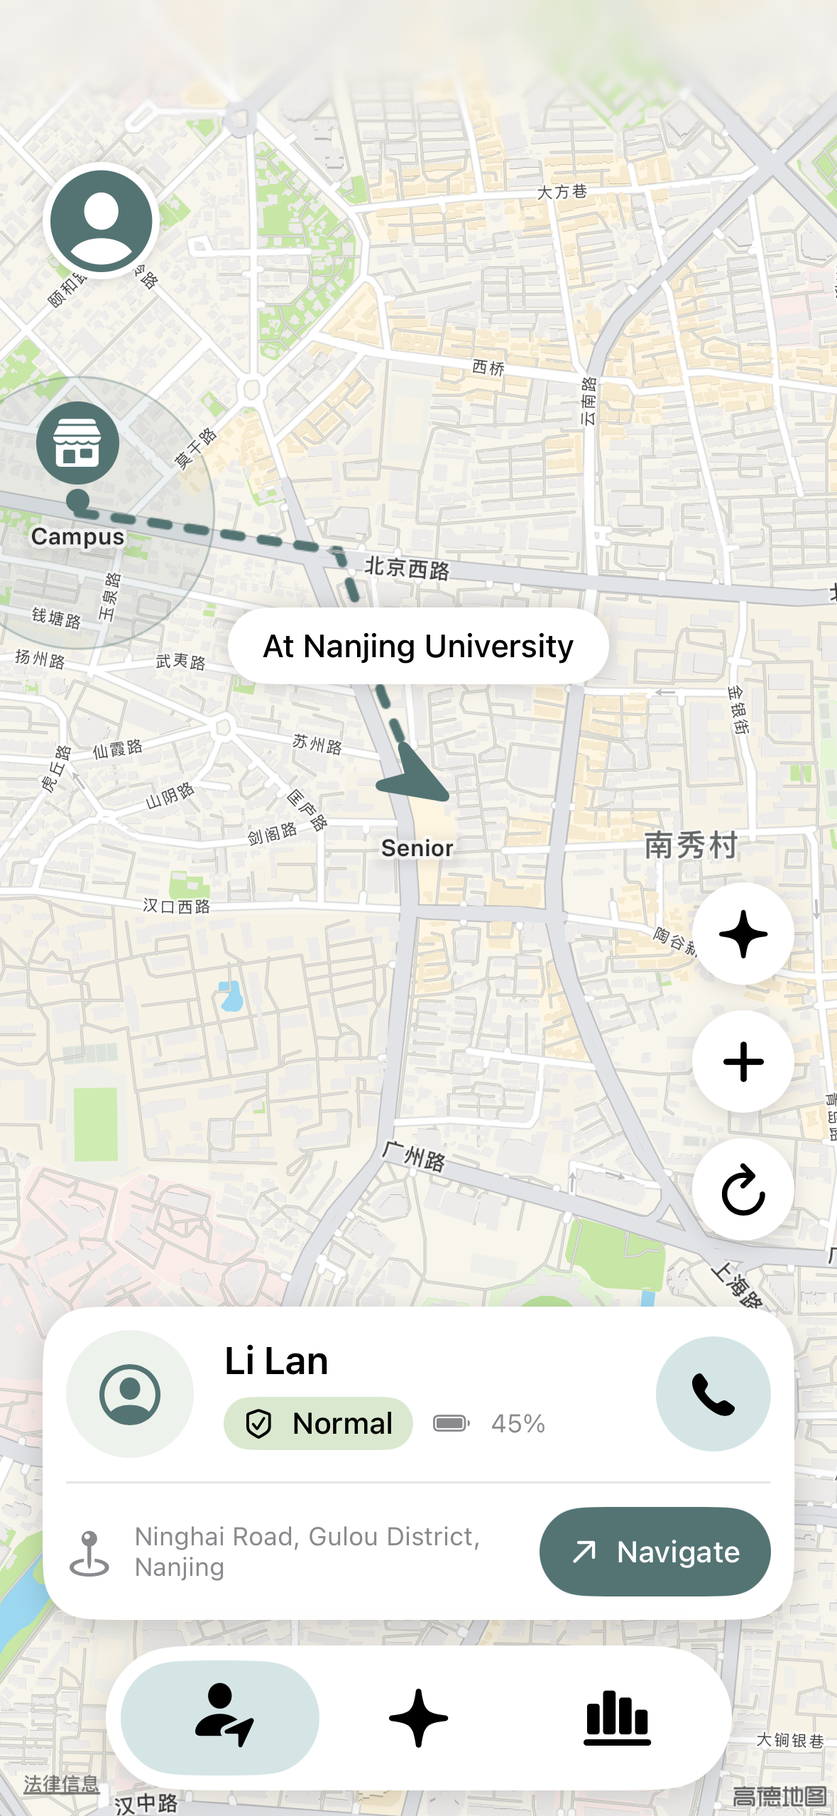
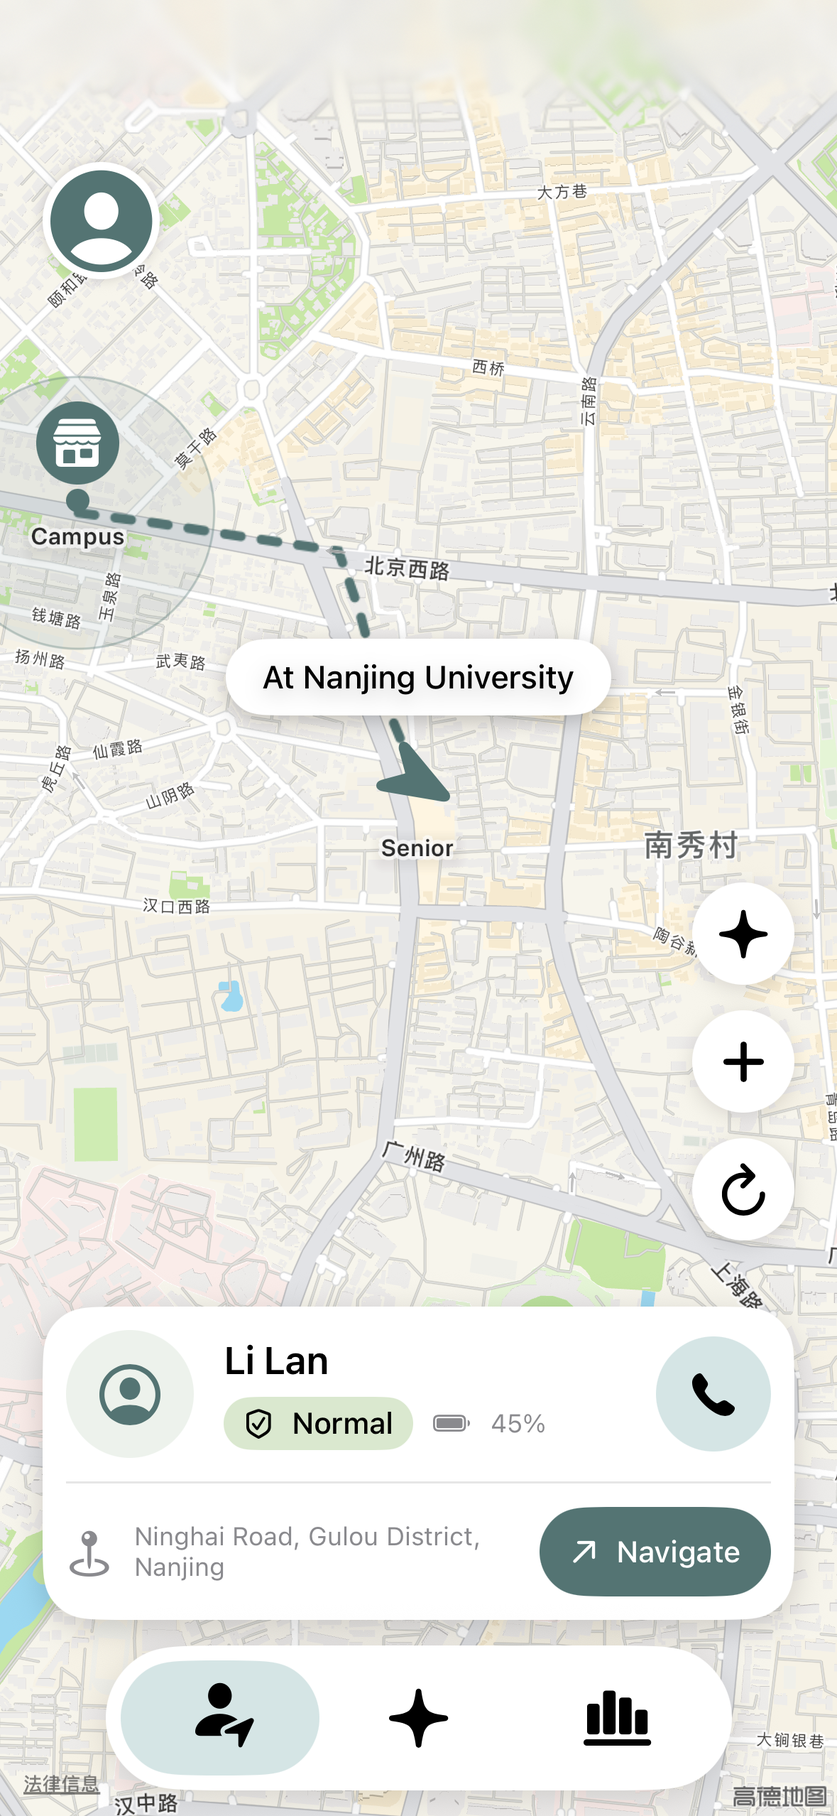
Fix signup confirmation preview and anchor location status

Changed region(s): [[0.2748, 0.34, 0.7328, 0.4636]]

diff --git a/object/ios/SafeOrbit/OnboardingUI.swift b/object/ios/SafeOrbit/OnboardingUI.swift
@@ -112,13 +112,18 @@ struct AuthInput: View {
     @Binding var text: String
     var password = false
     var newPassword = false
+    var confirmation = false
+    var autofillState: SignupAutofillState?
+    var linkedConfirmation: Binding<String>?
     @State private var visible = false
     var body: some View {
         HStack(spacing: 12) {
             Image(systemName: symbol).foregroundStyle(OrbitStyle.secondary).frame(width: 20)
             Group {
                 if newPassword {
-                    SignupPasswordField(title: title, text: $text, visible: visible)
+                    SignupPasswordField(title: title, text: $text, visible: visible,
+                                        confirmation: confirmation, autofillState: autofillState,
+                                        linkedConfirmation: linkedConfirmation)
                 } else if password && !visible {
                     SecureField(title, text: $text, prompt: Text(title).foregroundStyle(OrbitStyle.secondary))
                 } else {
@@ -137,18 +142,64 @@ struct AuthInput: View {
     }
 }
 
+final class SignupAutofillState {
+    var pendingConfirmation = ""
+    var acceptedPassword = ""
+}
+
 // UIKit keeps the registration text input alive while secure entry is toggled.
 // Password AutoFill can clear its displayed text when its suggestion is dismissed;
 // only a user edit reported by the delegate is allowed to clear the draft.
+private final class SignupUITextField: UITextField {
+    private let confirmationMask = UILabel()
+
+    override init(frame: CGRect) {
+        super.init(frame: frame)
+        prepareMask()
+    }
+
+    required init?(coder: NSCoder) {
+        super.init(coder: coder)
+        prepareMask()
+    }
+
+    private func prepareMask() {
+        confirmationMask.font = .preferredFont(forTextStyle: .subheadline)
+        confirmationMask.textColor = .secondaryLabel
+        confirmationMask.backgroundColor = .white
+        confirmationMask.isUserInteractionEnabled = false
+        confirmationMask.accessibilityElementsHidden = true
+        confirmationMask.isHidden = true
+        addSubview(confirmationMask)
+    }
+
+    override func layoutSubviews() {
+        super.layoutSubviews()
+        confirmationMask.frame = bounds
+        bringSubviewToFront(confirmationMask)
+    }
+
+    func maskUncommittedConfirmation(_ mask: Bool, title: String) {
+        confirmationMask.text = title
+        confirmationMask.isHidden = !mask
+        textColor = mask ? .clear : .label
+        if mask { accessibilityValue = "" }
+        else { accessibilityValue = nil }
+    }
+}
+
 struct SignupPasswordField: UIViewRepresentable {
     let title: String
     @Binding var text: String
     let visible: Bool
+    var confirmation = false
+    var autofillState: SignupAutofillState?
+    var linkedConfirmation: Binding<String>?
 
     func makeCoordinator() -> Coordinator { Coordinator(self) }
 
     func makeUIView(context: Context) -> UITextField {
-        let field = UITextField()
+        let field = SignupUITextField()
         field.delegate = context.coordinator
         field.addTarget(context.coordinator, action: #selector(Coordinator.textChanged(_:)), for: .editingChanged)
         field.font = .preferredFont(forTextStyle: .subheadline)
@@ -160,6 +211,7 @@ struct SignupPasswordField: UIViewRepresentable {
         field.spellCheckingType = .no
         field.isSecureTextEntry = true
         field.text = text
+        field.maskUncommittedConfirmation(confirmation && text.isEmpty, title: title)
         context.coordinator.draft = text
         context.coordinator.field = field
         return field
@@ -181,6 +233,7 @@ struct SignupPasswordField: UIViewRepresentable {
         } else if field.text != coordinator.draft {
             field.text = coordinator.draft
         }
+        (field as? SignupUITextField)?.maskUncommittedConfirmation(confirmation && text.isEmpty, title: title)
     }
 
     final class Coordinator: NSObject, UITextFieldDelegate {
@@ -218,6 +271,16 @@ struct SignupPasswordField: UIViewRepresentable {
 
         @objc func textChanged(_ field: UITextField) {
             let current = field.text ?? ""
+            // iOS previews the primary field in the confirmation field before the
+            // suggested password is accepted. That preview is not a user edit.
+            if parent.confirmation && !field.isFirstResponder
+                && current != parent.autofillState?.acceptedPassword {
+                parent.autofillState?.pendingConfirmation = current
+                field.text = draft
+                (field as? SignupUITextField)?.maskUncommittedConfirmation(draft.isEmpty, title: parent.title)
+                expectedUserText = nil
+                return
+            }
             if current.isEmpty && !draft.isEmpty && expectedUserText != "" {
                 field.text = draft
                 expectedUserText = nil
@@ -225,8 +288,16 @@ struct SignupPasswordField: UIViewRepresentable {
                 return
             }
             expectedUserText = nil
+            let wasGenerated = !parent.confirmation && current.count >= 12
+                && current.count - draft.count >= 8
             draft = current
             parent.text = current
+            if let state = parent.autofillState, !parent.confirmation {
+                state.acceptedPassword = wasGenerated ? current : ""
+                if wasGenerated && state.pendingConfirmation == current {
+                    parent.linkedConfirmation?.wrappedValue = current
+                }
+            }
         }
 
         func textFieldDidChangeSelection(_ field: UITextField) {
@@ -316,12 +387,17 @@ struct SignupPage: View {
 }
 struct EmailSignupPage: View {
     @ObservedObject var store: OnboardingStore
+    @State private var autofillState = SignupAutofillState()
     var body: some View {
         PageLayout(step: "", title: "Create account") {
             VStack(spacing: 14) {
                 AuthInput(title: "Email", symbol: "envelope", text: $store.email)
-                AuthInput(title: "Password", symbol: "lock", text: $store.password, password: true, newPassword: true)
-                AuthInput(title: "Confirm password", symbol: "lock", text: $store.confirmPassword, password: true, newPassword: true)
+                AuthInput(title: "Password", symbol: "lock", text: $store.password, password: true,
+                          newPassword: true, autofillState: autofillState,
+                          linkedConfirmation: $store.confirmPassword)
+                AuthInput(title: "Confirm password", symbol: "lock", text: $store.confirmPassword,
+                          password: true, newPassword: true, confirmation: true,
+                          autofillState: autofillState)
                 if !store.password.isEmpty && store.password.count < 8 {
                     Text("Use at least 8 characters.").font(.footnote).foregroundStyle(.red).frame(maxWidth: .infinity, alignment: .leading)
                 } else if !store.confirmPassword.isEmpty && store.confirmPassword != store.password {

diff --git a/object/ios/SafeOrbitTests/OnboardingTests.swift b/object/ios/SafeOrbitTests/OnboardingTests.swift
@@ -6,6 +6,49 @@ import CryptoKit
 @testable import SafeOrbit
 
 final class OnboardingTests: XCTestCase {
+    @MainActor func testPasswordSuggestionPreviewDoesNotCommitConfirmation() {
+        var confirmation = ""
+        let input = SignupPasswordField(title: "Confirm password", text: Binding(
+            get: { confirmation }, set: { confirmation = $0 }
+        ), visible: false, confirmation: true)
+        let coordinator = input.makeCoordinator()
+        let field = UITextField()
+
+        field.text = "preview"
+        coordinator.textChanged(field)
+        XCTAssertEqual(confirmation, "")
+        XCTAssertEqual(field.text, "")
+    }
+
+    @MainActor func testAcceptedGeneratedPasswordCanFillConfirmationInEitherOrder() {
+        for confirmationFirst in [true, false] {
+            var password = "a"
+            var confirmation = ""
+            let state = SignupAutofillState()
+            let primary = SignupPasswordField(title: "Password", text: Binding(
+                get: { password }, set: { password = $0 }
+            ), visible: false, autofillState: state, linkedConfirmation: Binding(
+                get: { confirmation }, set: { confirmation = $0 }
+            )).makeCoordinator()
+            primary.draft = password
+            let secondary = SignupPasswordField(title: "Confirm password", text: Binding(
+                get: { confirmation }, set: { confirmation = $0 }
+            ), visible: false, confirmation: true, autofillState: state).makeCoordinator()
+            let generated = "sample-generated-password"
+            let primaryField = UITextField()
+            let secondaryField = UITextField()
+            primaryField.text = generated
+            secondaryField.text = generated
+
+            if confirmationFirst { secondary.textChanged(secondaryField) }
+            primary.textChanged(primaryField)
+            if !confirmationFirst { secondary.textChanged(secondaryField) }
+
+            XCTAssertEqual(password, generated)
+            XCTAssertEqual(confirmation, generated)
+        }
+    }
+
     @MainActor func testSignupPasswordDraftRestoresUnexpectedClearButAllowsUserDelete() {
         var password = "sample"
         let input = SignupPasswordField(title: "Password", text: Binding(get: { password }, set: { password = $0 }), visible: false)

diff --git a/object/ios/SafeOrbit/LocationUI.swift b/object/ios/SafeOrbit/LocationUI.swift
@@ -227,12 +227,13 @@ struct LocationPage: View {
                                     .font(.system(size: 31, weight: .bold))
                                     .rotationEffect(.degrees(snapshot.validHeading ?? 0))
                                     .foregroundStyle(OrbitStyle.teal)
-                                if let headline = riskState.headline, snapshot.isCurrent {
+                                let headline = riskState == .normal ? snapshot.status : riskState.headline
+                                if let headline, !headline.isEmpty, snapshot.isCurrent {
                                     Text(headline)
                                         .font(.system(size: 15, weight: .medium))
                                         .foregroundStyle(riskState == .high ? .white : .black)
                                         .padding(.horizontal, 17).padding(.vertical, 9)
-                                        .background(riskState.color, in: Capsule())
+                                        .background(riskState == .normal ? .white : riskState.color, in: Capsule())
                                         .shadow(color: .black.opacity(0.22), radius: 5, y: 3)
                                         .fixedSize()
                                         .offset(y: -49)
@@ -293,17 +294,6 @@ struct LocationPage: View {
                     .accessibilityLabel("Back to default view")
                 }
                 Spacer(minLength: 0)
-                if riskState == .normal, let snapshot, snapshot.isCurrent, let status = snapshot.status, !status.isEmpty {
-                    Text(status).font(.system(size: 15, weight: .medium))
-                        .padding(.horizontal, 16).padding(.vertical, 9)
-                        .background {
-                            Capsule().fill(.white)
-                                .shadow(color: .black.opacity(0.16), radius: 5)
-                        }
-                        .frame(maxWidth: .infinity)
-                        .padding(.bottom, 15)
-                        .offset(y: -70)
-                }
                 HStack {
                     Spacer()
                     VStack(spacing: 12) {

diff --git a/queue/tasks/T8/task.md b/queue/tasks/T8/task.md
@@ -3,7 +3,7 @@
 ```json
 {
   "id": "T8",
-  "revision": 106,
+  "revision": 111,
   "assignee": "Codex",
   "parent": null,
   "deps": [
@@ -41,6 +41,7 @@
 - [receipt-000094.md](receipt-000094.md)
 - [receipt-000099.md](receipt-000099.md)
 - [receipt-000106.md](receipt-000106.md)
+- [receipt-000111.md](receipt-000111.md)
 
 ## 过程记录
 
@@ -70,6 +71,8 @@
 - #102｜rework｜Codex｜{"basis": "用户要求按已确认的视觉返工与选点方案修改 T8 安全区页面及首页标记", "expect": 99, "id": "T8"}
 - #103｜amend｜Codex｜{"authority": {"basis": "用户明确要求实施已确认的家属端页面视觉返工与安全区选点方案，包含 MapTiler 英文底图和本机密钥", "by": "用户"}, "expect": 102, "id": "T8", "proposal": {"criteria": "| 编号 | 可观察结果 | 验证方法 | 通过条件 |\n|---|---|---|---|\n| A1 | 原地图轨迹与老人位置仍正确 | 既有位置测试和模拟器三风险态 | 无既有行为回退，首页安全区图标位于圆心深绿点上方 |\n| A2 | 编辑安全区可准确选点 | 模拟器拖针、平移、缩放、反查地址后保存与重新进入 | 拖针更新中心，平移缩放不改变中心；地址英语且可用时精确到楼栋/门牌，无数据时如实显示坐标 |\n| A3 | 视觉与失败状态 | 对照 06 图、小屏大字、缺失密钥/断网状态 | 绿色只在顶部、地图到底部、署名可见、轨道无伸出、卡内无阴影；服务不可用时不创建错误位置 |\n| A4 | 回归 | 完整 iOS 测试、Release 构建、截图 | 检查通过，结果和限制写入回执 |\n\n验收安排：执行者代跑并注明未独立验证；用户单独验收 T8。", "origin": "用户在原 T8 交付后给出安全区编辑、首页标记和共用顶部的视觉及交互返工要求，并明确要求实施已确认的返工方案。原地图轨迹与会话级安全区行为继续保留；仅安全区编辑页为英文底图引入 MapTiler 服务，其他地图继续使用苹果地图。", "plan": "1. 登记返工与一次范围修订，确认原工件与英文底图接入位置。\n2. 实现共用顶部、安全区地图与视觉修正，保留原会话级行为。\n3. 在模拟器实走并运行完整测试和 Release 构建，记录依赖版本、命令读数与截图。\n4. 重交 T8 回执并本地提交，不推送。", "scope": "- 要交付：保留既有家属地图轨迹、风险气泡、老人卡片与会话级安全区增删改；首页安全区圆心加深绿色点且 Tag 图标居其正上方；安全区编辑使用共用的较矮绿色顶栏，地图延伸到底部；接入有署名的 MapTiler 英文矢量底图，定位针可拖动，地图可独立平移缩放，拖针后更新安全区中心和英文地址，失败时不保存错误位置；地址优先显示可获得的楼栋或门牌、道路、街区和城市，不足时显示道路与精确坐标；本机忽略配置注入密钥，缺失密钥或网络失败给出状态；去除会话期限提示文字；安全区卡片只给白色背景阴影，半径轨道以两端圆点收口；保持原有会话级持久范围、标签和半径档位。\n- 不包含：后端写接口、跨会话同步、付费地图服务、首页与出行详情地图替换、truth/reference 修改、推送；不改变原 T8 轨迹与风险业务逻辑。\n- 允许修改的位置：object/ios/ 下位置与页面 SwiftUI 源码、共用布局、地图适配、资源、Xcode 工程与配置、相关测试、说明和视觉核对记录；必要时 object/dev/generate-ios.mjs；队列记录只经队列工具维护。", "title": "家属地图轨迹、布局与安全区编辑返工"}}
[1 lines of base64/hex data omitted]
+- #109｜rework｜Codex｜{"basis": "用户反馈定位页正常状态文字卡固定在屏幕中间，要求锚定老人位置箭头并随地图移动", "expect": 106, "id": "T8"}
[1 lines of base64/hex data omitted]
 
 ## 接手说明
 

diff --git a/queue/tasks/T7/task.md b/queue/tasks/T7/task.md
@@ -3,7 +3,7 @@
 ```json
 {
   "id": "T7",
-  "revision": 88,
+  "revision": 110,
   "assignee": "Codex",
   "parent": null,
   "deps": [
@@ -46,6 +46,7 @@
 - [receipt-000078.md](receipt-000078.md)
 - [receipt-000084.md](receipt-000084.md)
 - [receipt-000088.md](receipt-000088.md)
+- [receipt-000110.md](receipt-000110.md)
 
 ## 过程记录
 
@@ -83,6 +84,8 @@
 - #86｜rework｜Codex｜{"basis": "用户要求修复注册密码输入时关闭系统强密码建议后草稿消失", "expect": 84, "id": "T7"}
 - #87｜amend｜Codex｜{"authority": {"basis": "用户明确要求实施注册密码输入修复方案，保留系统强密码建议且关闭后可续输", "by": "用户"}, "expect": 86, "id": "T7", "proposal": {"criteria": "| 编号 | 可观察结果 | 验证方法 | 通过条件 |\n|---|---|---|---|\n| A1 | 系统建议取消后手动草稿仍在且能续输 | iPhone 18 Pro、iOS 27 模拟器首字、弹窗、关闭、续输实跑 | 不需重输首字或重新聚焦；不记录明文密码 |\n| A2 | 主动删除、眼睛按钮、确认密码与系统生成密码可用 | 模拟器交互及前端测试 | 主动清空不会被误恢复；切换显示不丢字；既有校验正确 |\n| A3 | 其他登录与正式构建不回退 | 完整 iOS 测试、Release 构建、范围核对 | 测试和构建通过；不改后端、truth、reference 或用户已有字符串资源 |\n\n验收安排：执行者代跑并记录原样命令、退出码与观察，标未独立验证；用户最终验收。若 iOS 自身清空无法在保留系统建议的前提下稳定拦截，回执如实标未通过，不以构建成功代替交互成功。", "origin": "用户在 iPhone 18 Pro、iOS 27 的注册页发现：输入首个密码字符时弹出系统强密码建议，关闭后首字符消失，必须重新输入。用户明确要求实施既定修复方案：保留系统强密码建议，但关闭后保留已输入字符并能继续输入。本件继续属于家属登录前端 T7。", "plan": "1. 返工 T7 并一次更新批准基线；复现和定位输入、焦点变化，不记录密码内容。\n2. 仅替换注册密码控件，保留系统强密码建议，保护手动草稿及焦点。\n3. 实跑取消、续输、主动删除、显示切换、确认及强密码接受路径；运行完整测试与 Release 构建。\n4. 记录结果并在验证通过时交付，同批本地提交；不推送。", "scope": "- 要交付：注册页的密码与确认密码使用身份稳定的输入控件，继续标记新密码以保留 iOS 强密码建议；显示/隐藏不重建输入控件；系统提示取消后的非用户主动清空不丢失草稿，焦点可以继续输入；用户主动删除仍正常；邮箱、长度和确认一致校验、Debug 预览登录、Release 真正登录路径保持原有行为。\n- 不包含：后端、账号、证书、系统密码管理器设置、登录页现有密码输入方式、truth 与 reference 改动；不纳入已有两份字符串资源的工作区修改。\n- 允许修改的位置：object/ios/ 下注册输入 SwiftUI 源码、相关测试与使用说明；必要时既有 Xcode 工程及源码生成清单。队列记录只经工具维护。", "title": "注册页密码输入中断返工"}}
[1 lines of base64/hex data omitted]
+- #108｜rework｜Codex｜{"basis": "用户反馈注册时只输入主密码、系统强密码弹窗未关闭前确认框却显示乱码数字，要求排查并修复", "expect": 88, "id": "T7"}
[1 lines of base64/hex data omitted]
 
 ## 接手说明
 

diff --git a/queue/tasks/T7/receipt-000110.md b/queue/tasks/T7/receipt-000110.md
@@ -1,0 +1,15 @@
+# T7 注册确认密码预览误写返工交付
+
+## 实际完成
+
+注册页确认密码输入控件在未聚焦时拒绝 iOS 强密码建议产生的临时预览写入，空值时以原占位文字遮住 UIKit 的临时显示；用户进入确认栏后仍可正常输入。两个密码框继续使用 `.newPassword`。为系统强密码正式接受时可能先更新任一输入框的顺序，加入共用的本地候选状态：主密码一次性跃迁为生成值后，允许匹配的确认值落入表单。没有修改登录页、注册接口或凭据存储。
+
+## 验证事实（执行者自验，未独立验证）
+
+iPhone 18 Pro、iOS 27 模拟器实走：进入 Create account，仅在 Password 输入一个测试字符，系统强密码提示出现时 Confirm password 仍显示占位文字且无圆点；截图 `object/ios/Verification/T7/confirmation-preview.png`。关闭提示后第一栏字符仍在、确认栏仍空。没有实际选择系统生成密码或提交账号；生成密码不同事件顺序由前端测试模拟，真实系统接受路径仍待产品层面验收。
+
+原样命令：`xcodebuild -project object/ios/SafeOrbit.xcodeproj -scheme SafeOrbit -destination 'platform=iOS Simulator,id=DFC762F4-52D3-4703-8AFF-7625E0843313' -derivedDataPath object/ios/DerivedData -parallel-testing-enabled NO ARCHS=arm64 ONLY_ACTIVE_ARCH=YES CODE_SIGNING_ALLOWED=YES CODE_SIGN_IDENTITY=- test > /private/tmp/safeorbit-password-map-test-final.log 2>&1`；退出码 0；原样输出摘录：`Executed 31 tests, with 0 failures (0 unexpected) in 38.973 (39.001) seconds`、`** TEST SUCCEEDED **`。新增测试核对临时预览不提交确认值，以及生成值先写入两栏时均能完成确认。
+
+原样命令：`xcodebuild -project object/ios/SafeOrbit.xcodeproj -scheme SafeOrbit -configuration Release -sdk iphonesimulator -derivedDataPath object/ios/DerivedData ARCHS=arm64 ONLY_ACTIVE_ARCH=YES CODE_SIGNING_ALLOWED=NO build > /private/tmp/safeorbit-password-map-release-final.log 2>&1`；退出码 0；原样输出摘录：`** BUILD SUCCEEDED **`。
+
+`git diff --check` 退出码 0、无输出。本件申报 **unverified**：执行者已在模拟器核对用户报告的误显示，系统生成密码正式接受未由独立实例或用户核对。用户最终验收单独处理；没有推送。

diff --git a/queue/tasks/T8/receipt-000111.md b/queue/tasks/T8/receipt-000111.md
@@ -1,0 +1,15 @@
+# T8 定位状态卡片锚定返工交付
+
+## 实际完成
+
+Location 正常状态文字卡已并入老人坐标的 MapKit Annotation，与老人方向箭头共用地图坐标和偏移。原来固定在页面内容层的状态文字卡已移除。风险状态的标题继续沿用同一个坐标标记，保持原有数据、颜色和可见条件。
+
+## 验证事实（执行者自验，未独立验证）
+
+iPhone 18 Pro、iOS 27 模拟器进入 Debug 家属预览首页后实走地图平移：状态文字卡与老人箭头一起离开屏幕，不留在屏幕中间；点 Back to default view 后两者一起回到地图坐标。最终测试截图 `object/ios/Verification/T8/location-interactive-preview.png` 显示文字卡位于箭头正上方。
+
+原样命令：`xcodebuild -project object/ios/SafeOrbit.xcodeproj -scheme SafeOrbit -destination 'platform=iOS Simulator,id=DFC762F4-52D3-4703-8AFF-7625E0843313' -derivedDataPath object/ios/DerivedData -parallel-testing-enabled NO ARCHS=arm64 ONLY_ACTIVE_ARCH=YES CODE_SIGNING_ALLOWED=YES CODE_SIGN_IDENTITY=- test > /private/tmp/safeorbit-password-map-test-final.log 2>&1`；退出码 0；原样输出摘录：`Executed 31 tests, with 0 failures (0 unexpected) in 38.973 (39.001) seconds`、`** TEST SUCCEEDED **`。
+
+原样命令：`xcodebuild -project object/ios/SafeOrbit.xcodeproj -scheme SafeOrbit -configuration Release -sdk iphonesimulator -derivedDataPath object/ios/DerivedData ARCHS=arm64 ONLY_ACTIVE_ARCH=YES CODE_SIGNING_ALLOWED=NO build > /private/tmp/safeorbit-password-map-release-final.log 2>&1`；退出码 0；原样输出摘录：`** BUILD SUCCEEDED **`。
+
+`git diff --check` 退出码 0、无输出。本件申报 **unverified**：执行者已在模拟器实走定位卡片，前一轮没有 MapTiler 密钥导致的安全区编辑在线底图及拖针路径仍未实测；用户最终验收单独处理。没有推送。
